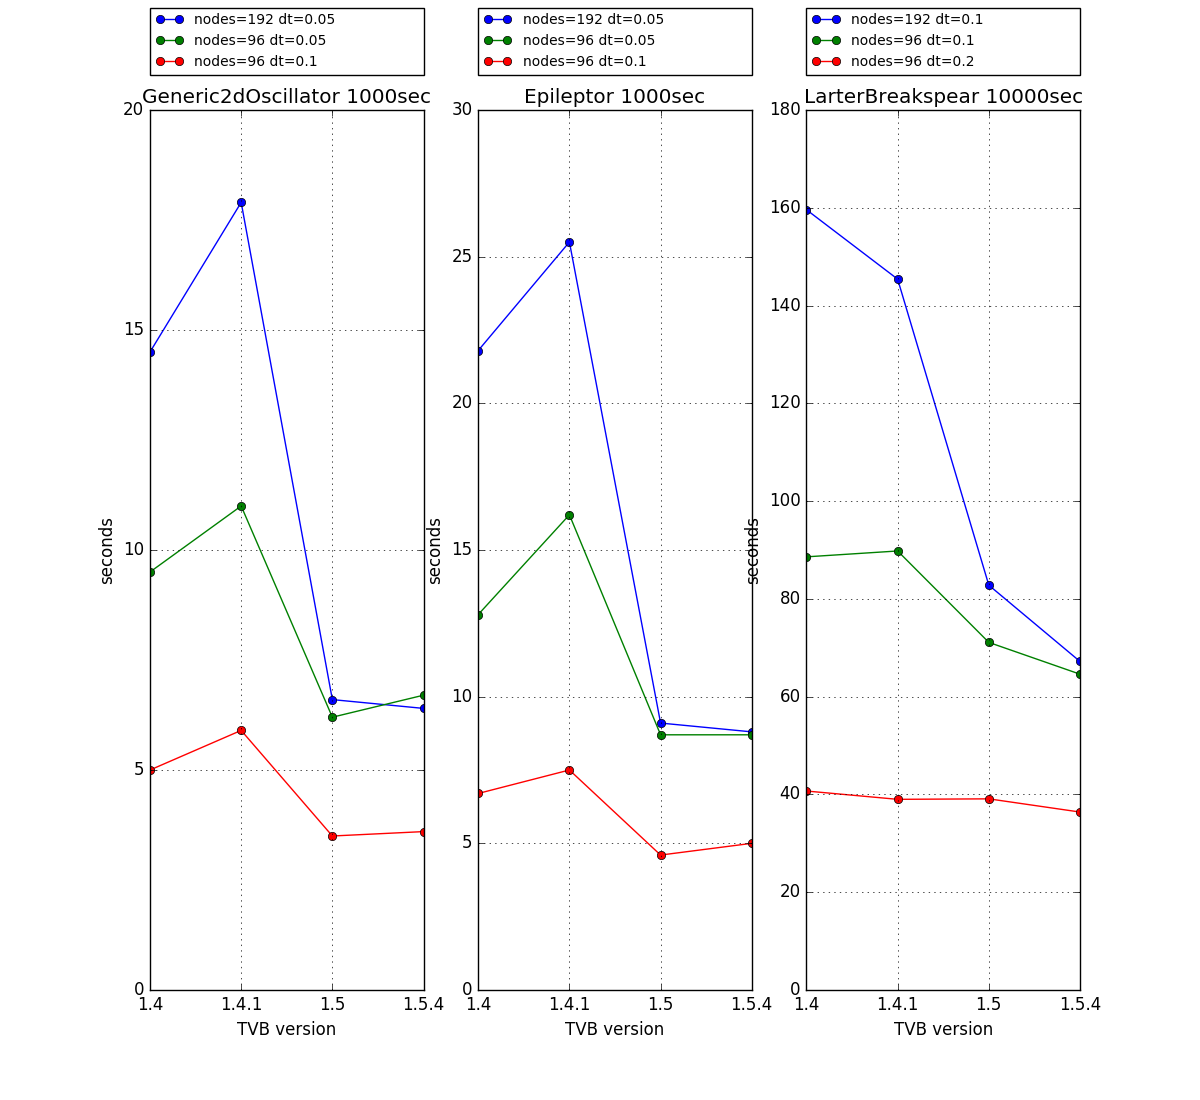
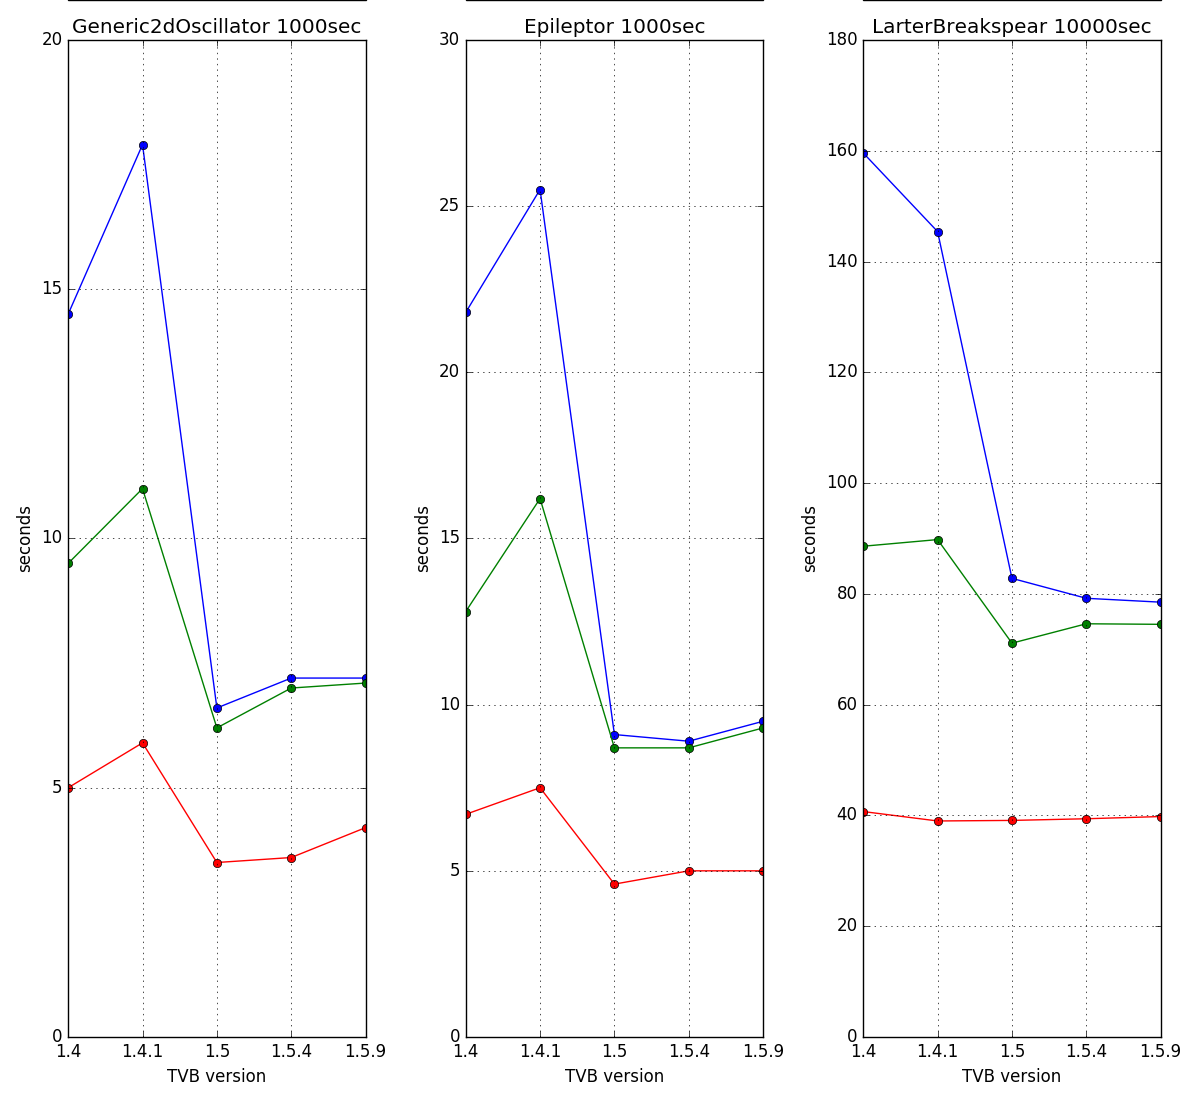
TVB-2454 Update benchmark figure at the current release version. Re-run on my machine previous release, for a fair comparison (older hardware now)
git-svn-id: https://repo.thevirtualbrain.org/svn/tvb/trunk@8870 1c0e02f0-7929-43c0-8fb3-3293bf43b0d1

diff --git a/tvb_documentation/doc_site/benchmarks/generate_benchmark_img.py b/tvb_documentation/doc_site/benchmarks/generate_benchmark_img.py
@@ -53,24 +53,24 @@ def plot(subplot, title, ymax, data1, label1, data2, label2, data3, label3):
     pyplot.title(title)
 
 
-x = [1, 2, 3, 4]
-x_labels = ["1.4", "1.4.1", "1.5", "1.5.4"]
+x = [1, 2, 3, 4, 5]
+x_labels = ["1.4", "1.4.1", "1.5", "1.5.4", "1.5.9"]
 figure = pyplot.figure(figsize=(12, 11))
 
 plot(131, "Generic2dOscillator 1000sec", 20,
-     [14.5, 17.9, 6.6, 6.4], "nodes=192 dt=0.05",
-     [9.5, 11.0, 6.2, 6.7], "nodes=96 dt=0.05",
-     [5, 5.9, 3.5, 3.6], "nodes=96 dt=0.1")
+     [14.5, 17.9, 6.6, 7.2, 7.2], "nodes=192 dt=0.05",
+     [9.5, 11.0, 6.2, 7.0, 7.1], "nodes=96 dt=0.05",
+     [5, 5.9, 3.5, 3.6, 4.2], "nodes=96 dt=0.1")
 
 plot(132, "Epileptor 1000sec", 30,
-     [21.8, 25.5, 9.1, 8.8], "nodes=192 dt=0.05",
-     [12.8, 16.2, 8.7, 8.7], "nodes=96 dt=0.05",
-     [6.7, 7.5, 4.6, 5.0], "nodes=96 dt=0.1")
+     [21.8, 25.5, 9.1, 8.9, 9.5], "nodes=192 dt=0.05",
+     [12.8, 16.2, 8.7, 8.7, 9.3], "nodes=96 dt=0.05",
+     [6.7, 7.5, 4.6, 5.0, 5.0], "nodes=96 dt=0.1")
 
 plot(133, "LarterBreakspear 10000sec", 180,
-     [159.6, 145.4, 82.8, 67.2], "nodes=192 dt=0.1",
-     [88.6, 89.8, 71.1, 64.6], "nodes=96 dt=0.1",
-     [40.7, 39.0, 39.1, 36.4], "nodes=96 dt=0.2")
+     [159.6, 145.4, 82.8, 79.2, 78.5], "nodes=192 dt=0.1",
+     [88.6, 89.8, 71.1, 74.6, 74.5], "nodes=96 dt=0.1",
+     [40.7, 39.0, 39.1, 39.4, 39.8], "nodes=96 dt=0.2")
 
 pyplot.show()
 figure.savefig("../../_static/benchmarks-evolution-mac.png")

diff --git a/tvb_documentation/doc_site/benchmarks/tvb_1.5.9_mac.rst b/tvb_documentation/doc_site/benchmarks/tvb_1.5.9_mac.rst
@@ -1,21 +1,21 @@
-.. _benchmark_tvb_154:
+.. _benchmark_tvb_158:
 
 
 **********************
-Benchmarks - TVB 1.5.4
+Benchmarks - TVB 1.5.8
 **********************
 
 
 +------------+-----------------------------------------------------------------+
 |                               System Info                                    |
 +============+=================================================================+
-|OS          | OS X Sierra  10.12.6                                            |
+|OS          | OS X High Sierra  10.13.6                                       |
 +------------+-----------------------------------------------------------------+
 |Memory      | 16GB DDR3  @1600MHz                                             |
 +------------+-----------------------------------------------------------------+
 |Processor   | 4 x 2.5 GHz Intel Core i7                                       |
 +------------+-----------------------------------------------------------------+
-|TVB version | 1.5.4 #8430 - Mac x64                                           |
+|TVB version | 1.5.9 #8865 - Mac x64                                           |
 +------------+-----------------------------------------------------------------+
 
 
@@ -46,36 +46,36 @@ The local model parameters are usually irrelevant for the purpose of benchmarkin
 +------------------------+--------+-------+-----------+---------+-----------+
 |                        |    (ms)|       |    (mm/ms)|     (ms)| min:sec   |
 +========================+========+=======+===========+=========+===========+
-|    Generic2dOscillator |   1000 |    68 |      30.0 |     0.1 |   00:03.3 |
+|    Generic2dOscillator |   1000 |    68 |      30.0 |     0.1 |   00:03.7 |
 +------------------------+--------+-------+-----------+---------+-----------+
-|    Generic2dOscillator |   1000 |    68 |       3.0 |     0.1 |   00:03.3 |
+|    Generic2dOscillator |   1000 |    68 |       3.0 |     0.1 |   00:03.9 |
 +------------------------+--------+-------+-----------+---------+-----------+
-|    Generic2dOscillator |   1000 |    68 |      30.0 |    0.05 |   00:06.1 |
+|    Generic2dOscillator |   1000 |    68 |      30.0 |    0.05 |   00:06.7 |
 +------------------------+--------+-------+-----------+---------+-----------+
-|    Generic2dOscillator |   1000 |    68 |       3.0 |    0.05 |   00:05.5 |
+|    Generic2dOscillator |   1000 |    68 |       3.0 |    0.05 |   00:06.8 |
 +------------------------+--------+-------+-----------+---------+-----------+
-|    Generic2dOscillator |   1000 |    96 |      30.0 |     0.1 |   00:03.5 |
+|    Generic2dOscillator |   1000 |    96 |      30.0 |     0.1 |   00:04.2 |
 +------------------------+--------+-------+-----------+---------+-----------+
-|    Generic2dOscillator |   1000 |    96 |       3.0 |     0.1 |   00:03.6 |
+|    Generic2dOscillator |   1000 |    96 |       3.0 |     0.1 |   00:04.3 |
 +------------------------+--------+-------+-----------+---------+-----------+
-|    Generic2dOscillator |   1000 |    96 |      30.0 |    0.05 |   00:07.1 |
+|    Generic2dOscillator |   1000 |    96 |      30.0 |    0.05 |   00:07.2 |
 +------------------------+--------+-------+-----------+---------+-----------+
-|    Generic2dOscillator |   1000 |    96 |       3.0 |    0.05 |   00:07.0 |
+|    Generic2dOscillator |   1000 |    96 |       3.0 |    0.05 |   00:07.1 |
 +------------------------+--------+-------+-----------+---------+-----------+
-|    Generic2dOscillator |   1000 |   192 |      30.0 |     0.1 |   00:04.0 |
+|    Generic2dOscillator |   1000 |   192 |      30.0 |     0.1 |   00:04.3 |
 +------------------------+--------+-------+-----------+---------+-----------+
-|    Generic2dOscillator |   1000 |   192 |       3.0 |     0.1 |   00:04.4 |
+|    Generic2dOscillator |   1000 |   192 |       3.0 |     0.1 |   00:04.2 |
 +------------------------+--------+-------+-----------+---------+-----------+
-|    Generic2dOscillator |   1000 |   192 |      30.0 |    0.05 |   00:07.6 |
+|    Generic2dOscillator |   1000 |   192 |      30.0 |    0.05 |   00:07.2 |
 +------------------------+--------+-------+-----------+---------+-----------+
-|    Generic2dOscillator |   1000 |   192 |       3.0 |    0.05 |   00:07.2 |
+|    Generic2dOscillator |   1000 |   192 |       3.0 |    0.05 |   00:07.4 |
 +------------------------+--------+-------+-----------+---------+-----------+
 
 
 +--------------------+------------------------------------+
 | Case B                                                  |
 +====================+====================================+
-|Model               | Epileptor (numba dfun)             |
+|Model               | Epileptor (numba dfun + modif. z)  |
 +--------------------+------------------------------------+
 |Coupling            | Linear                             |
 +--------------------+------------------------------------+
@@ -95,29 +95,29 @@ The local model parameters are usually irrelevant for the purpose of benchmarkin
 +------------------------+--------+-------+-----------+---------+-----------+
 |                        |    (ms)|       |    (mm/ms)|     (ms)| min:sec   |
 +========================+========+=======+===========+=========+===========+
-|              Epileptor |   1000 |    68 |      30.0 |     0.1 |   00:04.0 |
+|              Epileptor |   1000 |    68 |      30.0 |     0.1 |   00:04.6 |
 +------------------------+--------+-------+-----------+---------+-----------+
-|              Epileptor |   1000 |    68 |       3.0 |     0.1 |   00:04.4 |
+|              Epileptor |   1000 |    68 |       3.0 |     0.1 |   00:04.5 |
 +------------------------+--------+-------+-----------+---------+-----------+
-|              Epileptor |   1000 |    68 |      30.0 |    0.05 |   00:07.4 |
+|              Epileptor |   1000 |    68 |      30.0 |    0.05 |   00:08.1 |
 +------------------------+--------+-------+-----------+---------+-----------+
-|              Epileptor |   1000 |    68 |       3.0 |    0.05 |   00:06.5 |
+|              Epileptor |   1000 |    68 |       3.0 |    0.05 |   00:08.1 |
 +------------------------+--------+-------+-----------+---------+-----------+
 |              Epileptor |   1000 |    96 |      30.0 |     0.1 |   00:05.0 |
 +------------------------+--------+-------+-----------+---------+-----------+
-|              Epileptor |   1000 |    96 |       3.0 |     0.1 |   00:04.5 |
+|              Epileptor |   1000 |    96 |       3.0 |     0.1 |   00:05.3 |
 +------------------------+--------+-------+-----------+---------+-----------+
-|              Epileptor |   1000 |    96 |      30.0 |    0.05 |   00:08.7 |
+|              Epileptor |   1000 |    96 |      30.0 |    0.05 |   00:09.3 |
 +------------------------+--------+-------+-----------+---------+-----------+
-|              Epileptor |   1000 |    96 |       3.0 |    0.05 |   00:08.9 |
+|              Epileptor |   1000 |    96 |       3.0 |    0.05 |   00:09.7 |
 +------------------------+--------+-------+-----------+---------+-----------+
-|              Epileptor |   1000 |   192 |      30.0 |     0.1 |   00:05.1 |
+|              Epileptor |   1000 |   192 |      30.0 |     0.1 |   00:05.4 |
 +------------------------+--------+-------+-----------+---------+-----------+
-|              Epileptor |   1000 |   192 |       3.0 |     0.1 |   00:05.1 |
+|              Epileptor |   1000 |   192 |       3.0 |     0.1 |   00:05.7 |
 +------------------------+--------+-------+-----------+---------+-----------+
-|              Epileptor |   1000 |   192 |      30.0 |    0.05 |   00:08.9 |
+|              Epileptor |   1000 |   192 |      30.0 |    0.05 |   00:09.5 |
 +------------------------+--------+-------+-----------+---------+-----------+
-|              Epileptor |   1000 |   192 |       3.0 |    0.05 |   00:08.8 |
+|              Epileptor |   1000 |   192 |       3.0 |    0.05 |   00:10.0 |
 +------------------------+--------+-------+-----------+---------+-----------+
 
 
@@ -146,16 +146,16 @@ The local model parameters are usually irrelevant for the purpose of benchmarkin
 +------------------------+--------+-------+-----------+---------+-----------+
 |                        |    (ms)|       |    (mm/ms)|     (ms)| min:sec   |
 +========================+========+=======+===========+=========+===========+
-|       LarterBreakspear |  10000 |    68 |      10.0 |     0.2 |   00:33.6 |
+|       LarterBreakspear |  10000 |    68 |      10.0 |     0.2 |   00:36.9 |
 +------------------------+--------+-------+-----------+---------+-----------+
-|       LarterBreakspear |  10000 |    68 |      10.0 |     0.1 |   01:03.1 |
+|       LarterBreakspear |  10000 |    68 |      10.0 |     0.1 |   01:06.3 |
 +------------------------+--------+-------+-----------+---------+-----------+
-|       LarterBreakspear |  10000 |    96 |      10.0 |     0.2 |   00:39.4 |
+|       LarterBreakspear |  10000 |    96 |      10.0 |     0.2 |   00:39.8 |
 +------------------------+--------+-------+-----------+---------+-----------+
-|       LarterBreakspear |  10000 |    96 |      10.0 |     0.1 |   01:14.6 |
+|       LarterBreakspear |  10000 |    96 |      10.0 |     0.1 |   01:14.5 |
 +------------------------+--------+-------+-----------+---------+-----------+
-|       LarterBreakspear |  10000 |   192 |      10.0 |     0.2 |   00:52.8 |
+|       LarterBreakspear |  10000 |   192 |      10.0 |     0.2 |   00:41.7 |
 +------------------------+--------+-------+-----------+---------+-----------+
-|       LarterBreakspear |  10000 |   192 |      10.0 |     0.1 |   01:19.2 |
+|       LarterBreakspear |  10000 |   192 |      10.0 |     0.1 |   01:18.5 |
 +------------------------+--------+-------+-----------+---------+-----------+
 

diff --git a/tvb_documentation/doc_site/benchmarks/top_benchmarks.rst b/tvb_documentation/doc_site/benchmarks/top_benchmarks.rst
@@ -33,6 +33,7 @@ Performance evolution from a TVB version to another.
 .. toctree::
    :maxdepth: 2
 
+   tvb_1.5.9_mac
    tvb_1.5.4_mac
    tvb_1.5_mac
    tvb_1.4.1_mac
